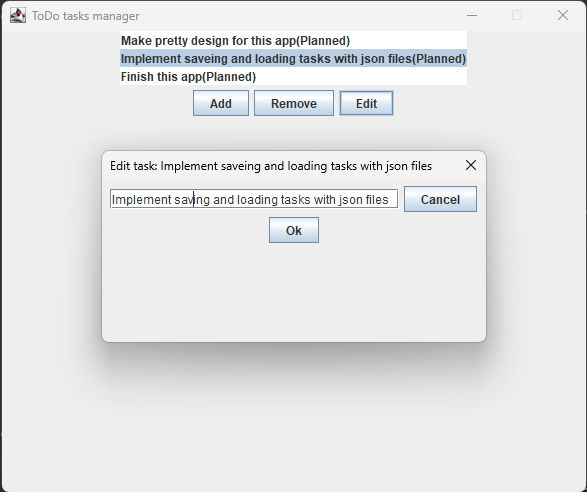
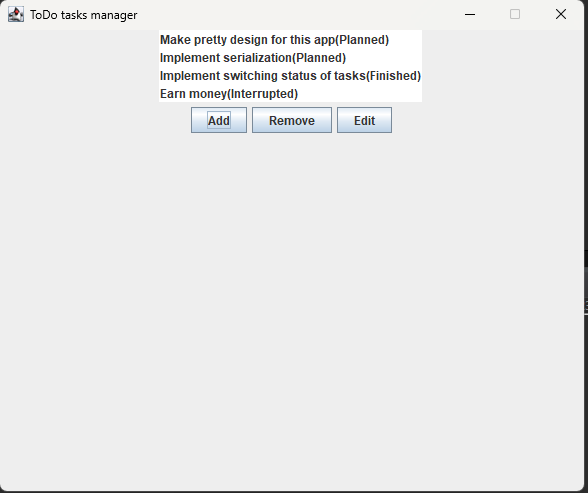
implemented switching status of tasks

diff --git a/src/UI/EditTaskDialog.java b/src/UI/EditTaskDialog.java
@@ -8,7 +8,9 @@ import java.awt.event.ActionListener;
 import javax.swing.JButton;
 import javax.swing.JPanel;
 import javax.swing.JTextField;
+import javax.swing.JCheckBox;
 import Core.ToDoTask;
+import Core.TaskStatus;
 
 public class EditTaskDialog extends JDialog {
 	
@@ -17,6 +19,11 @@ public class EditTaskDialog extends JDialog {
 
 	// Containers
 	private JPanel widgetPanel;
+	private JPanel stateSelectPanel;
+	// State selection
+	private JCheckBox plannedCheck;
+	private JCheckBox finishedCheck;
+	private JCheckBox interruptedCheck;
 	
 	// Widgets
 	private JTextField taskText;
@@ -53,6 +60,8 @@ public class EditTaskDialog extends JDialog {
 		task = newTask;
 		
 		taskText.setText(task.Text);
+		
+		switchStatus(task.Status);
 	}
 	
 	private static EditTaskDialog getInstance(MainWindow parent) {
@@ -89,9 +98,19 @@ public class EditTaskDialog extends JDialog {
 		okButton = new JButton("Ok");
 		cancelButton = new JButton("Cancel");
 		
+		stateSelectPanel = new JPanel();
+		plannedCheck = new JCheckBox("Planned");
+		finishedCheck = new JCheckBox("Finished");
+		interruptedCheck = new JCheckBox("Interrupted");
+		
+		stateSelectPanel.add(plannedCheck);
+		stateSelectPanel.add(finishedCheck);
+		stateSelectPanel.add(interruptedCheck);
+		
 		widgetPanel.add(taskText);
 		widgetPanel.add(cancelButton);
 		widgetPanel.add(okButton);
+		widgetPanel.add(stateSelectPanel);
 		
 		this.add(widgetPanel);
 	}
@@ -114,6 +133,30 @@ public class EditTaskDialog extends JDialog {
 			}
 		});
 		
+		plannedCheck.addActionListener(new ActionListener() {
+			@Override
+			public void actionPerformed(ActionEvent e) {
+				
+				onCheckboxSwitched(e);
+			}
+		});
+		
+		finishedCheck.addActionListener(new ActionListener() {
+			@Override
+			public void actionPerformed(ActionEvent e) {
+				
+				onCheckboxSwitched(e);
+			}
+		});
+		
+		interruptedCheck.addActionListener(new ActionListener() {
+			@Override
+			public void actionPerformed(ActionEvent e) {
+				
+				onCheckboxSwitched(e);
+			}
+		});
+		
 		
 	}
 	
@@ -125,7 +168,51 @@ public class EditTaskDialog extends JDialog {
 	
 	private void onCancelButtonClicked() {
 		
+		task = null;
 		this.setVisible(false);
+	}
+	
+	private void onCheckboxSwitched(ActionEvent e) {
+		JCheckBox checked = (JCheckBox) e.getSource();
+		boolean selected = checked.getModel().isSelected();
+		
+		if(!selected) {
+			return;
+		}
+		
+		if(checked == plannedCheck) {
+			switchStatus(TaskStatus.Planned);
+		}
+		else if (checked == finishedCheck) {
+			switchStatus(TaskStatus.Finished);
+		}
+		else if (checked == interruptedCheck) {
+			switchStatus(TaskStatus.Interrupted);
+		}
+	}
+	
+	private void switchStatus(TaskStatus status)
+	{
+		task.Status = status;
+		
+		switch(status)
+		{
+		case Planned:
+			plannedCheck.getModel().setSelected(true);		
+			finishedCheck.getModel().setSelected(false);
+			interruptedCheck.getModel().setSelected(false);
+			break;
+		case Finished:
+			finishedCheck.getModel().setSelected(true);
+			plannedCheck.getModel().setSelected(false);
+			interruptedCheck.getModel().setSelected(false);
+			break;
+		case Interrupted:
+			interruptedCheck.getModel().setSelected(true);
+			finishedCheck.getModel().setSelected(false);
+			plannedCheck.getModel().setSelected(false);
+			break;
+		}
 	}
 
 }

diff --git a/src/Core/ToDoApplication.java b/src/Core/ToDoApplication.java
@@ -4,26 +4,36 @@ import UI.MainWindow;
 
 public final class ToDoApplication {
 	
+	private static ToDoApplication app;
+	
 	public static void main(String[] args) {
 		
-		ToDoApplication app = new ToDoApplication(args);
+		if(app != null)
+			return;
+		
+		app = new ToDoApplication(args);
 		
 		app.Exec();
 		
 	}
 	
 	private MainWindow window;
-	private String[] args;
 	
-	public ToDoApplication(String[] args) {
-		this.args = args;
+	private ToDoApplication(String[] args_) {
+
 		window = MainWindow.GetInstance();
 	}
 	
-	public int Exec() {
+	private int Exec() {
 	
 		window.setVisible(true);
 		
 		return 0;
+	}	
+
+	private static  String configPath;
+	
+	public static String GetConfigPath() {	
+		return configPath;
 	}
 }

diff --git a/src/UI/MainWindow.java b/src/UI/MainWindow.java
@@ -5,6 +5,7 @@ import javax.swing.BoxLayout;
 import javax.swing.JButton;
 import javax.swing.JPanel;
 
+import Core.ToDoApplication;
 import Core.ToDoTask;
 
 import java.awt.GraphicsDevice;
@@ -46,6 +47,8 @@ public final class MainWindow extends JFrame {
 	private MainWindow() {
 		
 		super();
+		
+		System.out.println(ToDoApplication.GetConfigPath());
 		
 		this.setTitle(title);
 		this.setSize(width, height);

diff --git a/src/Core/ToDoTask.java b/src/Core/ToDoTask.java
@@ -7,7 +7,7 @@ public class ToDoTask  {
 
 	public String Text;
 	
-	public ActionStatus Status;
+	public TaskStatus Status;
 
 	public LocalDateTime StartTime;
 	public LocalDateTime EndTime;
@@ -16,7 +16,7 @@ public class ToDoTask  {
 	public ToDoTask(String text) {
 		
 		Text = text;
-		Status = ActionStatus.Planned;
+		Status = TaskStatus.Planned;
 	}
 	
 	// Overrides toString function for JList widget

diff --git a/src/UI/ToDoListWidget.java b/src/UI/ToDoListWidget.java
@@ -3,6 +3,7 @@ package UI;
 import javax.swing.DefaultListModel;
 import javax.swing.JList;
 import Core.ToDoTask;
+import Core.ToDoApplication;
 
 public class ToDoListWidget extends JList<ToDoTask> {
 	
@@ -35,6 +36,6 @@ public class ToDoListWidget extends JList<ToDoTask> {
 	
 	private void InitToDoList()
 	{
-		// Load from .json config
+		// TODO Load from .json config
 	}
 }

diff --git a/src/Core/TaskStatus.java b/src/Core/TaskStatus.java
@@ -1,0 +1,9 @@
+package Core;
+
+public enum TaskStatus {
+	
+	Planned,
+	Finished,
+	Interrupted
+	
+}

diff --git a/README.md b/README.md
@@ -4,9 +4,9 @@
 
 # What can it do?
 1. Add/edit or remove TODO tasks
+2. Switch status of tasks - Planned, Finished, Interrupted
 ## Not implemented yet, but in process 
 2. Notifies you of planned tasks
-2. Switch status of tasks - Planned, Finished, Interrupted, Delayed
 3. Set time limits for your tasks - when it starts and when it ends
 4. Automaticly switches status of task with time limit
 5. Saves all of your tasks to JSON files, you'll never lose it
